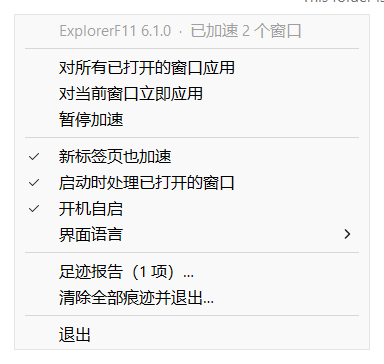
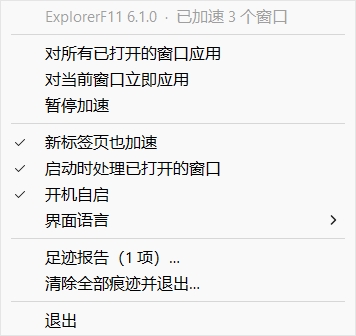
tighten report notes, add English screenshots
- footprint notes shortened so they fit the report window without wrapping
- in-memory mark count uses a proper plural
- docs/images: English and Chinese captures, taken from the window itself
  (DWMWA_EXTENDED_FRAME_BOUNDS) so nothing behind it leaks in
- tools/capture-screenshots.py documents and reproduces those captures

diff --git a/src/footprint.cpp b/src/footprint.cpp
@@ -380,10 +380,9 @@ std::vector<Footprint> CollectFootprints() {
         x.writer  = T(L"本程序；仅当某个开关被改成非默认值时才写入",
                       L"this program, and only while a setting differs from its default");
         x.where   = std::wstring(L"HKCU\\") + CFG_KEY;
-        x.note    = T(L"可能的值：Tabs、InitialSweep、Language。改回默认值即删除该值；"
-                      L"键内没有任何值时，键本身一并删除",
-                      L"possible values: Tabs, InitialSweep, Language. Resetting one deletes it; "
-                      L"when the key holds nothing, the key itself is deleted");
+        x.note    = T(L"可能的值：Tabs、InitialSweep、Language。改回默认即删该值，键空则删键",
+                      L"possible values: Tabs, InitialSweep, Language; a value is deleted when "
+                      L"it returns to its default");
         x.present = KeyContents(HKEY_CURRENT_USER, CFG_KEY, &d, &x.bytes);
         if (x.present) x.content = d + L" (" + FmtBytes(x.bytes) + L")";
         f.push_back(x);
@@ -411,10 +410,8 @@ std::vector<Footprint> CollectFootprints() {
         x.writer  = T(L"本程序；只有带 --log 参数或排查问题时",
                       L"this program, only with --log");
         x.where   = LogPath();
-        x.note    = T(L"默认不存在。超过 1 MB 会从头重写，不会无限增长。"
-                      L"「清除全部痕迹」删除它",
-                      L"not created by default. Rewritten from scratch past 1 MB, so it cannot "
-                      L"grow without bound. Removed by \"clear all traces\"");
+        x.note    = T(L"默认不存在。超过 1 MB 从头重写，不会无限增长。清理时删除",
+                      L"not created by default; rewritten past 1 MB, so it cannot grow without bound");
         x.present = FileInfo(x.where, &x.bytes);
         if (x.present) x.content = FmtBytes(x.bytes);
         f.push_back(x);
@@ -426,10 +423,9 @@ std::vector<Footprint> CollectFootprints() {
         x.label     = T(L"程序本体", L"Program file");
         x.writer    = T(L"你；这个文件是你放到这里的", L"you; the file is where you put it");
         x.where     = ExePath();
-        x.note      = T(L"这不是痕迹，而是程序本身，清理不会删除它。彻底卸载：先"
-                        L"「清除全部痕迹」，再删除该文件",
-                        L"not residue but the program itself; cleanup never deletes it. "
-                        L"Full uninstall: clear all traces, then delete this file");
+        x.note      = T(L"不是痕迹，是程序本身，清理不会删除它。彻底卸载：清完痕迹再删此文件",
+                        L"not residue but the program; cleanup never deletes it. Uninstall: clear "
+                        L"traces, then delete this file");
         x.deletable = false;
         x.present   = FileInfo(x.where, &x.bytes);
         if (x.present) x.content = FmtBytes(x.bytes);
@@ -442,10 +438,9 @@ std::vector<Footprint> CollectFootprints() {
         x.label   = T(L"启动开关（任务管理器）", L"Startup approval flag (Task Manager)");
         x.writer  = W_WIN;
         x.where   = std::wstring(L"HKCU\\") + APPROVED_KEY + L"\\" + RUN_VALUE;
-        x.note    = T(L"12 字节 REG_BINARY。首字节为奇数表示你在任务管理器里把它关过；"
-                      L"重新勾选自启或清理痕迹时删除该值",
-                      L"12-byte REG_BINARY; an odd first byte means you switched it off in Task "
-                      L"Manager. Deleted when autostart is re-ticked or traces are cleared");
+        x.note    = T(L"12 字节 REG_BINARY。首字节为奇数 = 在任务管理器里关过；清理时删除",
+                      L"12-byte REG_BINARY; an odd first byte = disabled in Task Manager. Deleted "
+                      L"with the traces");
         x.present = OneValue(HKEY_CURRENT_USER, APPROVED_KEY, RUN_VALUE, &d, &x.bytes);
         if (x.present) x.content = d + L" (" + FmtBytes(x.bytes) + L")";
         f.push_back(x);
@@ -457,10 +452,9 @@ std::vector<Footprint> CollectFootprints() {
         x.label   = T(L"托盘图标记录", L"Tray icon bookkeeping");
         x.writer  = W_WIN;
         x.where   = std::wstring(L"HKCU\\") + TRAY_KEY + L"\\{...}";
-        x.note    = T(L"每个托盘图标一条记录，内含约 1–3 KB 的图标快照；"
-                      L"只统计 ExecutablePath 指向本程序的那些",
-                      L"one record per tray icon, each holding a 1-3 KB icon snapshot; "
-                      L"only entries whose ExecutablePath points at this exe are counted");
+        x.note    = T(L"每个托盘图标一条记录（含 1–3 KB 图标快照）；只统计指向本程序的那些",
+                      L"one record per tray icon (a 1-3 KB icon snapshot); only entries pointing "
+                      L"at this exe count");
         x.present = TrayFootprint(&d, &x.bytes) > 0;
         if (x.present) x.content = d + T(L" 条", L" entries") + L" (" + FmtBytes(x.bytes) + L")";
         f.push_back(x);
@@ -511,9 +505,9 @@ std::vector<Footprint> CollectFootprints() {
         x.label   = T(L"预读取记录（Prefetch）", L"Prefetch entry");
         x.writer  = W_WIN;
         x.where   = std::wstring(L"%WINDIR%\\Prefetch\\") + EXE_BASE + L"-*.pf";
-        x.note    = T(L"只有管理员可读。存在即说明系统预读过它；清理会删除，需要管理员权限",
-                      L"readable by administrators only. Its presence means the system has "
-                      L"prefetched it; cleanup deletes it and needs elevation");
+        x.note    = T(L"只有管理员可读。存在即说明系统预读过它；清理需要管理员权限",
+                      L"administrators only; its presence means the system prefetched it. Cleanup "
+                      L"needs elevation");
         x.present = PrefetchFootprint(&d, &x.bytes) > 0;
         if (x.present) x.content = d + L" (" + FmtBytes(x.bytes) + L")";
         f.push_back(x);
@@ -527,12 +521,11 @@ std::vector<Footprint> CollectFootprints() {
         x.writer  = T(L"本程序；写在资源管理器窗口的属性里",
                       L"this program, as a property on explorer windows");
         x.where   = T(L"窗口属性 ExplorerF11.Marked", L"window property ExplorerF11.Marked");
-        x.note    = T(L"不落盘：explorer 重启或注销后自动消失，因此无需也无法清理",
-                      L"never touches disk: gone when explorer restarts or you sign out, "
-                      L"so there is nothing to clean");
+        x.note    = T(L"不落盘：explorer 重启或注销后自动消失，无需清理",
+                      L"never touches disk: gone when explorer restarts or you sign out");
         x.present = n > 0;
         x.deletable = false;
-        if (x.present) x.content = Pad2(n) + T(L" 个窗口", L" window(s)");
+        if (x.present) x.content = Pad2(n) + T(L" 个窗口", n == 1 ? L" window" : L" windows");
         f.push_back(x);
     }
     // ---- 12-14. legacy leftovers ---------------------------------------
@@ -542,9 +535,9 @@ std::vector<Footprint> CollectFootprints() {
         x.label   = T(L"旧版本设置键", L"Legacy settings key");
         x.writer  = T(L"v4 及更早版本", L"v4 and earlier");
         x.where   = std::wstring(L"HKCU\\") + OLD_CFG_KEY;
-        x.note    = T(L"旧版本的产品名是 ExplorerF11Ultra；新版本首次运行会自动迁移并删除它",
-                      L"older builds used the product name ExplorerF11Ultra; the first run of "
-                      L"this version migrates it and deletes it");
+        x.note    = T(L"旧版本的产品名是 ExplorerF11Ultra；新版本首次运行自动迁移并删除",
+                      L"older builds used the name ExplorerF11Ultra; the first run of 6.x migrates "
+                      L"and deletes it");
         x.present = KeyContents(HKEY_CURRENT_USER, OLD_CFG_KEY, &d, &x.bytes);
         if (x.present) x.content = d + L" (" + FmtBytes(x.bytes) + L")";
         f.push_back(x);

diff --git a/tools/capture-screenshots.py b/tools/capture-screenshots.py
@@ -29,8 +29,8 @@ OUT = os.path.join(ROOT, "docs", "images")
 
 LANG = sys.argv[1] if len(sys.argv) > 1 else "zh"
 SUFFIX = ".zh-CN" if LANG == "zh" else ".en"
-MARGIN = 14                      # room for the drop shadow
-MENU_MARGIN = 2                  # the popup sits on top of whatever is behind it
+MARGIN = 0                       # exact window rect: never photograph what is behind
+MENU_MARGIN = 0
 
 IDM_STATUS = 1010
 TRAY_ID = 1001
@@ -46,6 +46,13 @@ u.FindWindowW.restype = wintypes.HWND
 u.PostMessageW.argtypes = [wintypes.HWND, wintypes.UINT, wintypes.WPARAM, wintypes.LPARAM]
 u.GetWindowRect.argtypes = [wintypes.HWND, ctypes.POINTER(wintypes.RECT)]
 u.SetCursorPos.argtypes = [ctypes.c_int, ctypes.c_int]
+u.SetWindowPos.argtypes = [wintypes.HWND, wintypes.HWND, ctypes.c_int, ctypes.c_int,
+                           ctypes.c_int, ctypes.c_int, ctypes.c_uint]
+
+SWP_NOMOVE = 0x0002
+SWP_NOSIZE = 0x0001
+HWND_TOPMOST = wintypes.HWND(-1)
+HWND_NOTOPMOST = wintypes.HWND(-2)
 
 # Without this the process is DPI-unaware and every rectangle comes back scaled.
 try:
@@ -54,10 +61,32 @@ except OSError:
     pass
 
 
-def grab(hwnd, path, margin=MARGIN):
+def raise_window(hwnd):
+    """Screen captures show whatever is on top, so force the window up first."""
+    u.ShowWindow(hwnd, 9)                                   # SW_RESTORE
+    u.SetWindowPos(hwnd, HWND_TOPMOST, 0, 0, 0, 0, SWP_NOMOVE | SWP_NOSIZE)
+    u.SetForegroundWindow(hwnd)
+    time.sleep(0.45)
+
+
+def visible_rect(hwnd):
+    """The window as the eye sees it.
+
+    GetWindowRect includes the invisible resize border DWM reserves for the drop
+    shadow (about 8 px on each side), and a screen grab of that rectangle picks up
+    whatever is behind it. DWMWA_EXTENDED_FRAME_BOUNDS excludes that border.
+    """
     r = wintypes.RECT()
+    if ctypes.windll.dwmapi.DwmGetWindowAttribute(
+            hwnd, 9, ctypes.byref(r), ctypes.sizeof(r)) == 0 and r.right > r.left:
+        return r
     if not u.GetWindowRect(hwnd, ctypes.byref(r)):
         raise SystemExit("GetWindowRect failed for %r" % hwnd)
+    return r
+
+
+def grab(hwnd, path, margin=MARGIN):
+    r = visible_rect(hwnd)
     box = (r.left - margin, r.top - margin, r.right + margin, r.bottom + margin)
     img = ImageGrab.grab(bbox=box, all_screens=True)
     img.save(path)
@@ -96,7 +125,9 @@ def main():
     if not report:
         raise SystemExit("report window did not open")
     time.sleep(0.7)                      # let the edit control paint the body
+    raise_window(report)
     grab(report, os.path.join(OUT, "footprint-report" + SUFFIX + ".png"))
+    u.SetWindowPos(report, HWND_NOTOPMOST, 0, 0, 0, 0, SWP_NOMOVE | SWP_NOSIZE)
     u.PostMessageW(report, WM_CLOSE, 0, 0)
     time.sleep(0.4)
 

diff --git a/tests/test_footprint_report.py b/tests/test_footprint_report.py
@@ -240,7 +240,7 @@ check_true("报告说明检查范围",
 check("谁写：行数 = 条目数", out.count("谁写："), 14)
 check("位置：行数 = 条目数", out.count("位置："), 14)
 check("说明：行数 = 条目数", out.count("说明："), 14)
-check_true("程序本体注明不是残留", "不是残留" in out or "干净" in out)
+check_true("程序本体注明不是痕迹", "不是痕迹" in out or "干净" in out)
 check_true("Windows 记录单独成段并解释来源",
            "── 二、Windows 自动记录" in out and "这是系统行为" in out, "")
 check_true("可清理标记存在", "· 可清理" in out or clean)

diff --git a/README.md b/README.md
@@ -17,9 +17,12 @@ stealing, no administrator rights, one 292 KB exe.
 > see [docs/RESEARCH.md](docs/RESEARCH.md) for the evidence and the timeline.
 
 <p align="center">
-  <img src="docs/images/tray-menu.zh-CN.png" width="330" alt="tray menu">
-  <img src="docs/images/footprint-report.zh-CN.png" width="430" alt="footprint report">
+  <img src="docs/images/tray-menu.en.png" width="330" alt="tray menu">
+  <img src="docs/images/footprint-report.en.png" width="430" alt="footprint report">
 </p>
+
+<p align="center"><sub>The UI in English; <a href="README.zh-CN.md">README.zh-CN.md</a>
+shows the same screens in Chinese.</sub></p>
 
 ## Why another one
 
